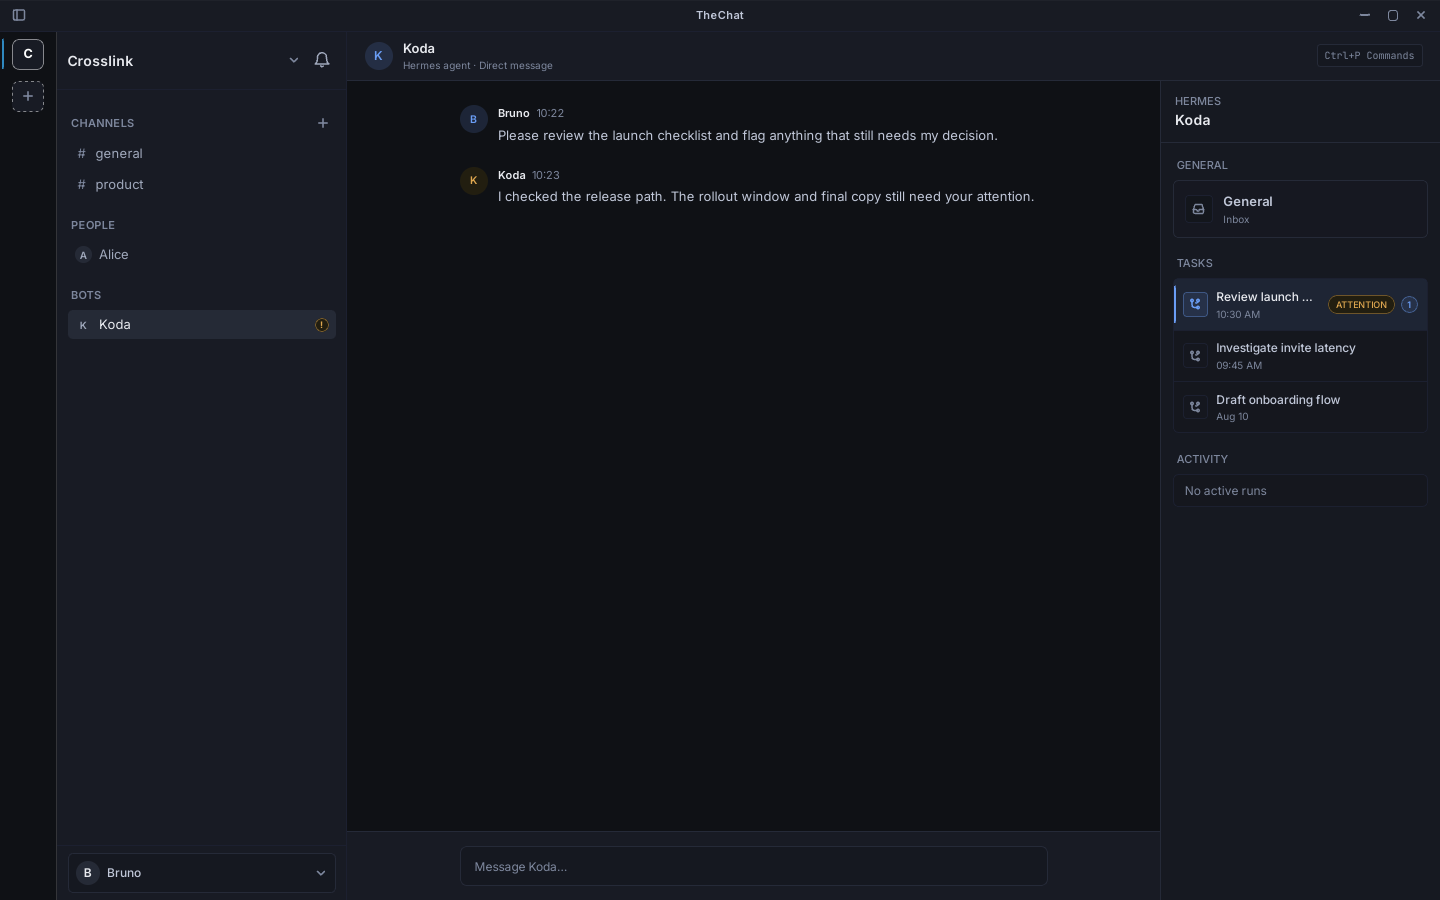
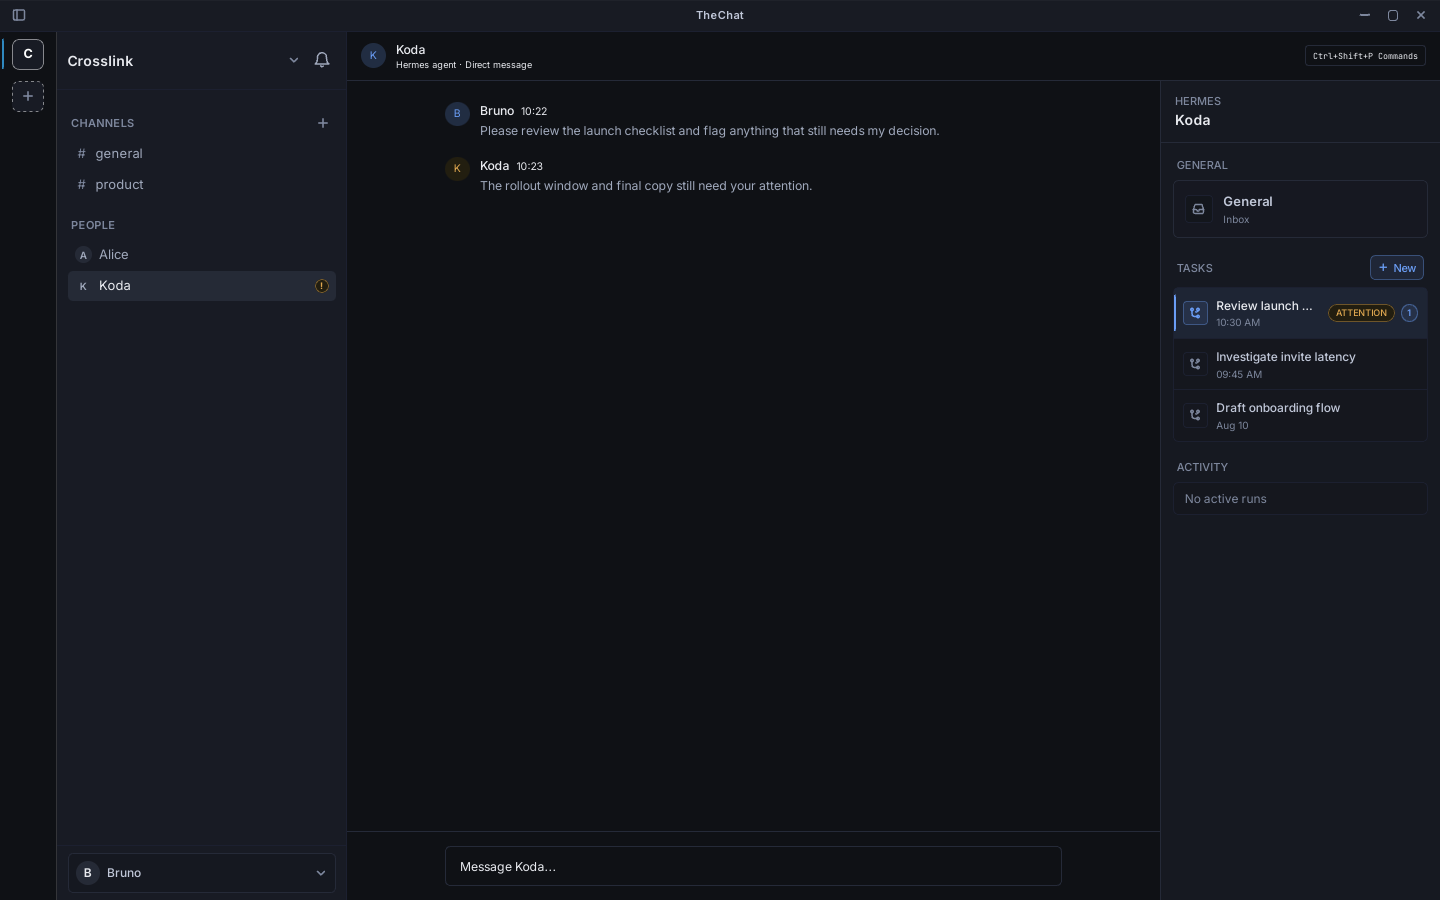
fix: use reliable needs-attention shortcut

diff --git a/packages/desktop/src/hooks/useNeedsAttentionCommand.test.tsx b/packages/desktop/src/hooks/useNeedsAttentionCommand.test.tsx
@@ -1,5 +1,5 @@
 import { invoke } from "@tauri-apps/api/core";
-import { act, renderHook, waitFor } from "@testing-library/react";
+import { act, fireEvent, renderHook, waitFor } from "@testing-library/react";
 import { beforeEach, describe, expect, it, vi } from "vitest";
 import { useCommandsStore } from "../commands";
 import {
@@ -11,6 +11,7 @@ import {
   NEEDS_ATTENTION_SHORTCUT,
   useNeedsAttentionCommand,
 } from "./useNeedsAttentionCommand";
+import { useKeybindings } from "./useKeybindings";
 
 vi.mock("@tauri-apps/api/core", () => ({ invoke: vi.fn() }));
 
@@ -55,7 +56,7 @@ describe("useNeedsAttentionCommand", () => {
     expect(command).toMatchObject({
       label: "Needs Attention",
       shortcut: NEEDS_ATTENTION_SHORTCUT,
-      keybinding: { prefix: "C-x", key: "!" },
+      keybinding: { prefix: "C-x", key: "m" },
     });
 
     act(() => command?.execute());
@@ -104,5 +105,38 @@ describe("useNeedsAttentionCommand", () => {
         "task-1",
       ),
     ).toBe(true);
+  });
+
+  it("toggles the current scope from the C-x m key sequence", async () => {
+    renderHook(() => {
+      useKeybindings({
+        onPermissionAllow: () => undefined,
+        onPermissionDeny: () => undefined,
+        onPermissionDenyWithFeedback: () => undefined,
+        handleRegistryCommands: true,
+      });
+      useNeedsAttentionCommand({
+        userId: "user-1",
+        conversationId: "dm-1",
+        threadId: "task-1",
+      });
+    });
+
+    await waitFor(() => {
+      expect(useCommandsStore.getState().commands[0]?.enabled).toBe(true);
+    });
+
+    fireEvent.keyDown(window, { key: "x", ctrlKey: true });
+    fireEvent.keyDown(window, { key: "m" });
+
+    await waitFor(() => {
+      expect(
+        scopeNeedsAttention(
+          useNeedsAttentionStore.getState().scopes,
+          "dm-1",
+          "task-1",
+        ),
+      ).toBe(true);
+    });
   });
 });

diff --git a/packages/desktop/src/hooks/useNeedsAttentionCommand.ts b/packages/desktop/src/hooks/useNeedsAttentionCommand.ts
@@ -7,7 +7,7 @@ import {
 } from "../stores/needs-attention";
 import { useScopedCommands } from "./useScopedCommands";
 
-export const NEEDS_ATTENTION_SHORTCUT = "C-x !";
+export const NEEDS_ATTENTION_SHORTCUT = "C-x m";
 
 export function useNeedsAttentionCommand({
   userId,
@@ -31,7 +31,7 @@ export function useNeedsAttentionCommand({
         id: "needs-attention",
         label: marked ? "Clear Needs Attention" : "Needs Attention",
         shortcut: NEEDS_ATTENTION_SHORTCUT,
-        keybinding: { prefix: "C-x", key: "!" },
+        keybinding: { prefix: "C-x", key: "m" },
         enabled: Boolean(userId) && ready,
         priority: 90,
         execute: () => {
